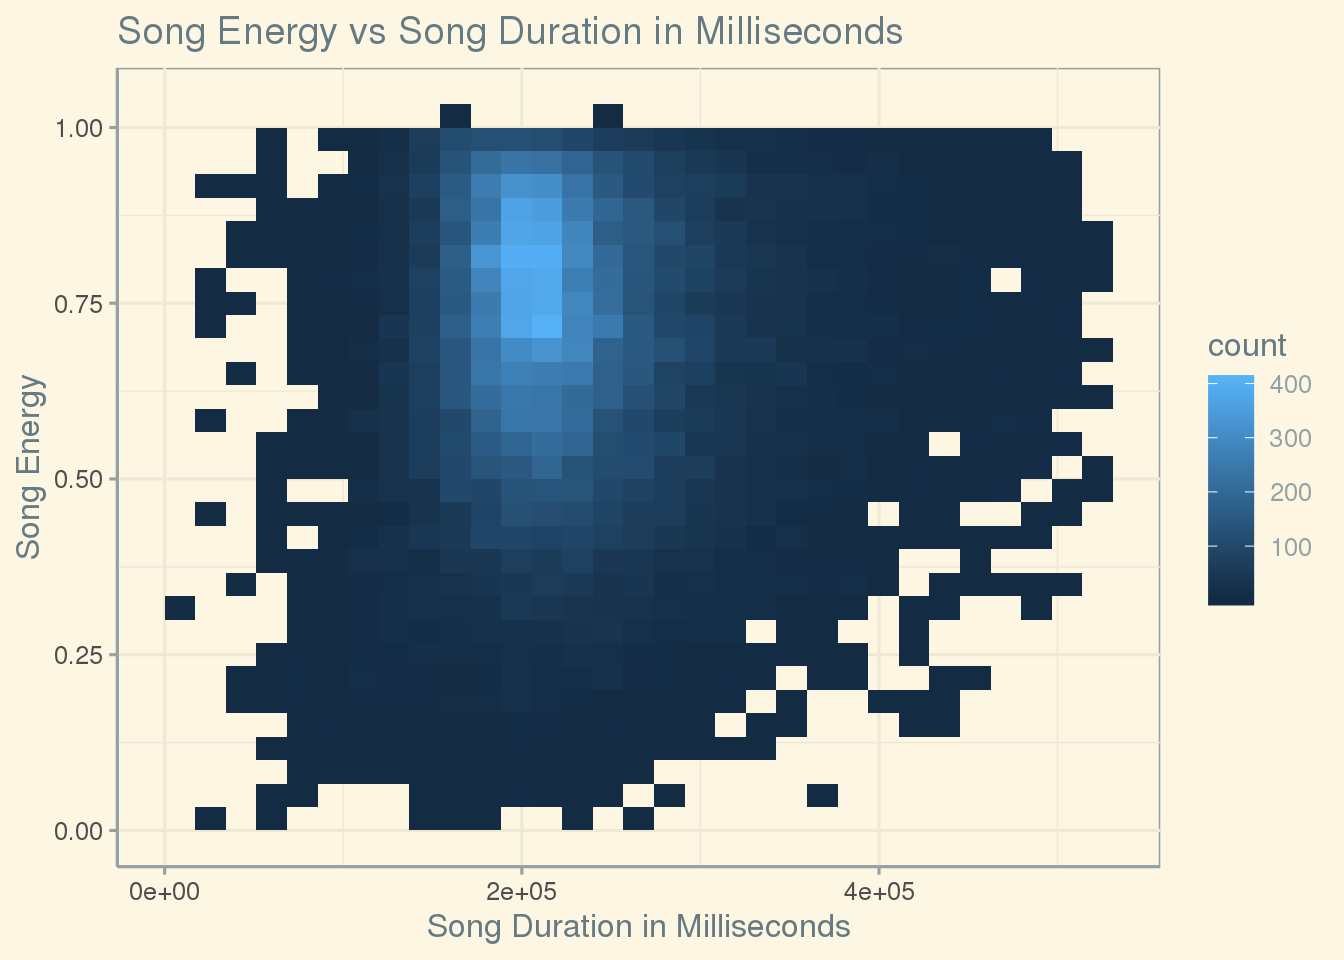
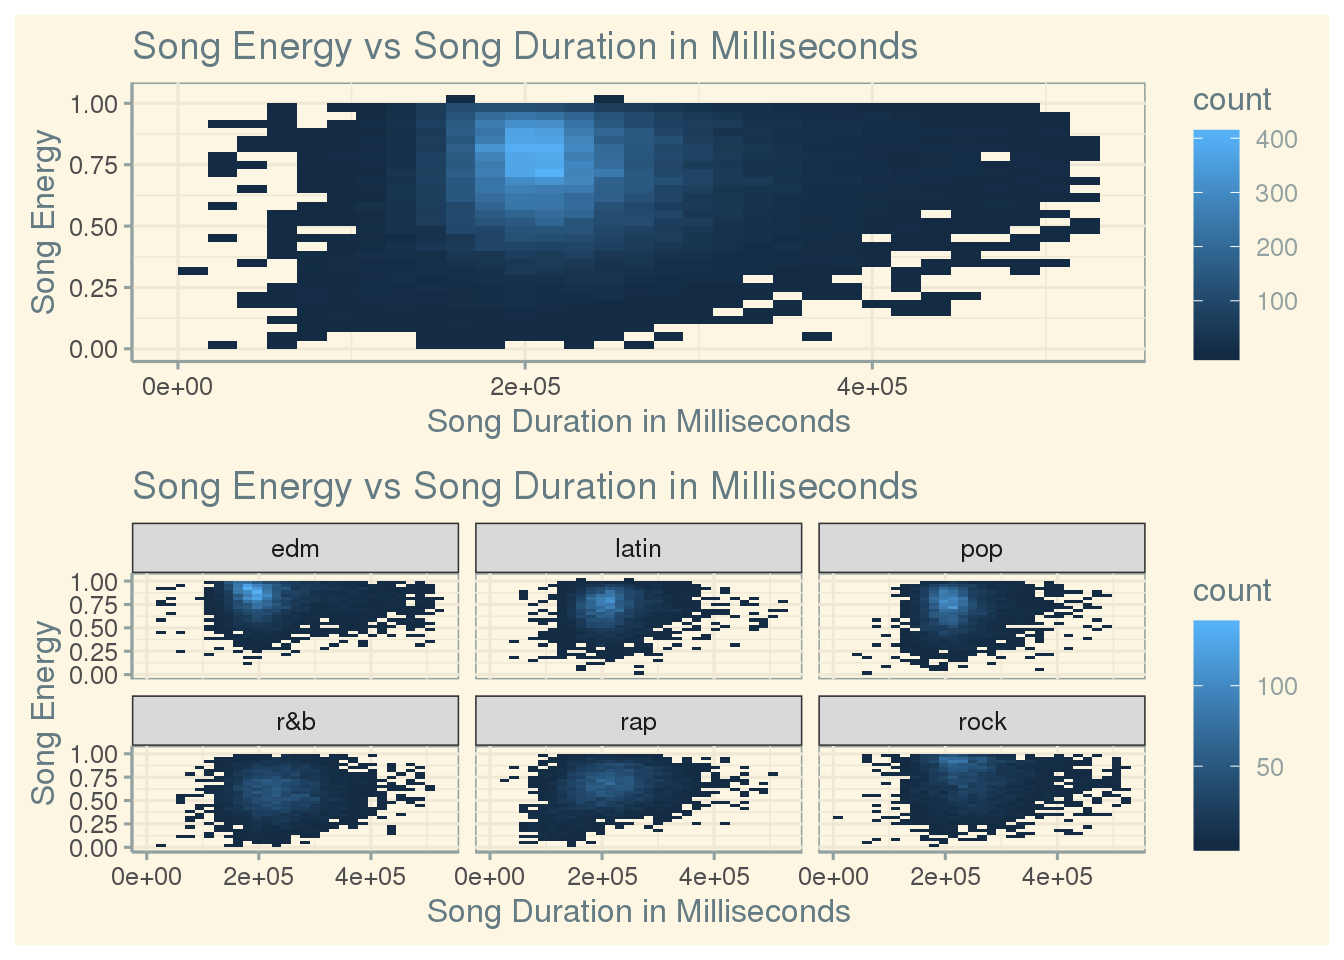
Combining graphs after running patchwork

diff --git a/content/post/2020-12-05-spotify-data-analysis/index.html b/content/post/2020-12-05-spotify-data-analysis/index.html
@@ -12,6 +12,7 @@ tags: []
 
 
 <pre class="r"><code>library(here)
+library(patchwork)
 library(ggplot2)
 library(tidyverse)
 library(readxl)
@@ -31,13 +32,13 @@ spotify &lt;- read_csv(here::here(&quot;data&quot;, &quot;tidytuesday&quot;,
 <div id="question-1" class="section level1">
 <h1>Question 1</h1>
 <p>My first question is, how does the energy of a song compare to it’s duration? To answer this I took the variables for song time and energy and plotted them against each other as a 2D bin plot to look for any patterns. I wanted to test this because it is easy to assume that a high energy song is going to be short, while a low energy song will be long. Also, I split up the main graph into the different genres to look for any other trends that are genre specific. Looking at the main graph it is interesting to see that the highest density area has the shape of an upside down tomb stone, or a parabola. It would appear that most songs are in the 1e+05 ms to 3e+05 ms range and are of an energy .5 or higher. So there is a tendency for artists to go for higher energy songs that are around 3.5 minutes long in order to keep the attention of the listener. One problem with this analysis is that it doesn’t take into account how well the song is perceived by the audience. There could be a point in that clump that was just a song with someone yelling as loud as they could for 3.5 minutes, I’m looking at you Screamo. While some people may like that the general audience will likely veer away from that kind of music, so the analysis is not all that helpful in real world application. When looking at the separate graphs for each genre it is obvious that they all follow a similar pattern as described previously.</p>
-<pre class="r"><code>spotify %&gt;% ggplot(aes(x = duration_ms, y = energy)) + geom_bin2d() + theme_solarized() + 
-    xlab(&quot;Song Duration in Milliseconds&quot;) + ylab(&quot;Song Energy&quot;) + ggtitle(&quot;Song Energy vs Song Duration in Milliseconds&quot;)</code></pre>
-<p><img src="index_files/figure-html/unnamed-chunk-3-1.png" width="672" /></p>
-<pre class="r"><code>spotify %&gt;% ggplot(aes(x = duration_ms, y = energy)) + geom_bin2d() + theme_solarized() + 
+<pre class="r"><code>p1 &lt;- spotify %&gt;% ggplot(aes(x = duration_ms, y = energy)) + geom_bin2d() + theme_solarized() + 
+    xlab(&quot;Song Duration in Milliseconds&quot;) + ylab(&quot;Song Energy&quot;) + ggtitle(&quot;Song Energy vs Song Duration in Milliseconds&quot;)
+p2 &lt;- spotify %&gt;% ggplot(aes(x = duration_ms, y = energy)) + geom_bin2d() + theme_solarized() + 
     xlab(&quot;Song Duration in Milliseconds&quot;) + ylab(&quot;Song Energy&quot;) + ggtitle(&quot;Song Energy vs Song Duration in Milliseconds&quot;) + 
-    facet_wrap(~playlist_genre)</code></pre>
-<p><img src="index_files/figure-html/unnamed-chunk-3-2.png" width="672" /></p>
+    facet_wrap(~playlist_genre)
+p1/p2</code></pre>
+<p><img src="index_files/figure-html/unnamed-chunk-3-1.png" width="672" /></p>
 </div>
 <div id="question-2" class="section level1">
 <h1>Question 2</h1>
@@ -78,13 +79,13 @@ spotify &lt;- read_csv(here::here(&quot;data&quot;, &quot;tidytuesday&quot;,
 <div id="question-3" class="section level1">
 <h1>Question 3</h1>
 <p>My third question is, how does a song’s speechiness compare to it’s popularity? Is there a sweet spot of speechiness to make a song more popular? To answer this I graphed the variables attached to speechiness and song popularity against each other as a 2D bin plot. I made sure to not include points that had a speechiness above .66 because those are not necessarily classified as music. From there I looked at the general shape the points made and if any trends were obvious. My thinking behind this was to see if music listeners payed any mind to the amount of words in a song. If there are too many words it might as well be a college lecture while if there are too few there is hardly any message to it. The first graph is the density scatter plot of all the genres combined while the series of graphs below it are split by genre. Of course the popularity of a song doesn’t solely depend on speechiness, but there is some influence from what we can tell from the graph. What I found is that there seems to be a trend where the points slope downward from top popularity to around .4 speechiness and slope upward from 12 popularity to .4 speechiness to form a triangular point. Also, there are a lot of points with no popularity at all where it didn’t matter how speechy they were, so they were disliked for other reasons. So, in general as a song gets more speechy it’s popularity decreases. The trend upward from 12 popularity to around 50 popularity is likely attributed to other factors. There is no real sweet spot, but being less speechy does help. The main problem with this data is that the process by which speech was detected in the song was not clarified. If I were to redo this data set I would definitely include that process so people were better educated about the speechiness variable’s accuracy and meaning. When splitting by genre, it is apparent that they all follow a similar pattern as previously described. But, on the main graph it is interesting to note a large cluster of songs that have 0 speechiness and 0 popularity. Using the split by genre graphs we can pin point what genres are responsible for these. It would seem that EDM, rock, and pop are the culprits in this case. So in those three genres there were a lot of songs that had little to no lyrics and the audience just seemed to hate them.</p>
-<pre class="r"><code>spotify %&gt;% filter(speechiness &lt; 0.66) %&gt;% ggplot(aes(x = speechiness, y = track_popularity)) + 
+<pre class="r"><code>l1 &lt;- spotify %&gt;% filter(speechiness &lt; 0.66) %&gt;% ggplot(aes(x = speechiness, y = track_popularity)) + 
     geom_bin2d() + theme_solarized() + labs(x = &quot;Speechiness&quot;, y = &quot;Song Popularity&quot;) + 
-    ggtitle(&quot;Speechiness vs Song Popularity&quot;)</code></pre>
+    ggtitle(&quot;Speechiness vs Song Popularity&quot;)
+l2 &lt;- spotify %&gt;% filter(speechiness &lt; 0.66) %&gt;% ggplot(aes(x = speechiness, y = track_popularity)) + 
+    geom_bin2d() + theme_solarized() + labs(x = &quot;Speechiness&quot;, y = &quot;Song Popularity&quot;) + 
+    ggtitle(&quot;Speechiness vs Song Popularity&quot;) + facet_wrap(~playlist_genre)
+l1/l2</code></pre>
 <p><img src="index_files/figure-html/unnamed-chunk-5-1.png" width="672" /></p>
-<pre class="r"><code>spotify %&gt;% filter(speechiness &lt; 0.66) %&gt;% ggplot(aes(x = speechiness, y = track_popularity)) + 
-    geom_bin2d() + theme_solarized() + labs(x = &quot;Speechiness&quot;, y = &quot;Song Popularity&quot;) + 
-    ggtitle(&quot;Speechiness vs Song Popularity&quot;) + facet_wrap(~playlist_genre)</code></pre>
-<p><img src="index_files/figure-html/unnamed-chunk-5-2.png" width="672" /></p>
 <p>In the end, we have delved a bit deeper into the statistics of music. We have found that most songs are around 3.5 minutes long with high energy to keep listeners interested. Also, we discovered the top ten most popular songs on Spotify up to January 2020 and that it was dominated by pop. Finally, we uncovered that in general as a song’s speechiness increases it’s popularity decreases. Having read this one can know take a stab at why a song may not perform very well on the charts, and how it could have done better.</p>
 </div>
